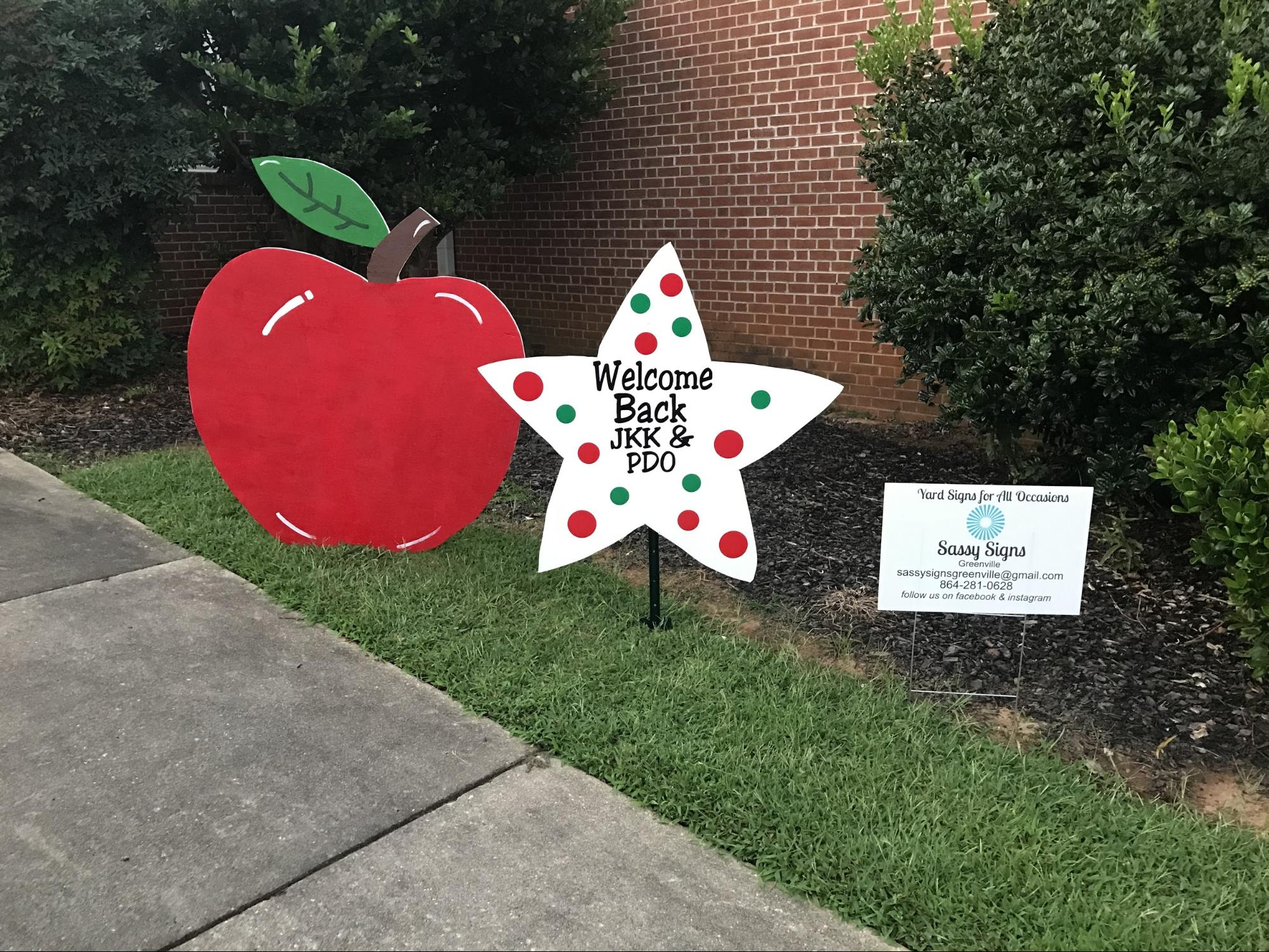
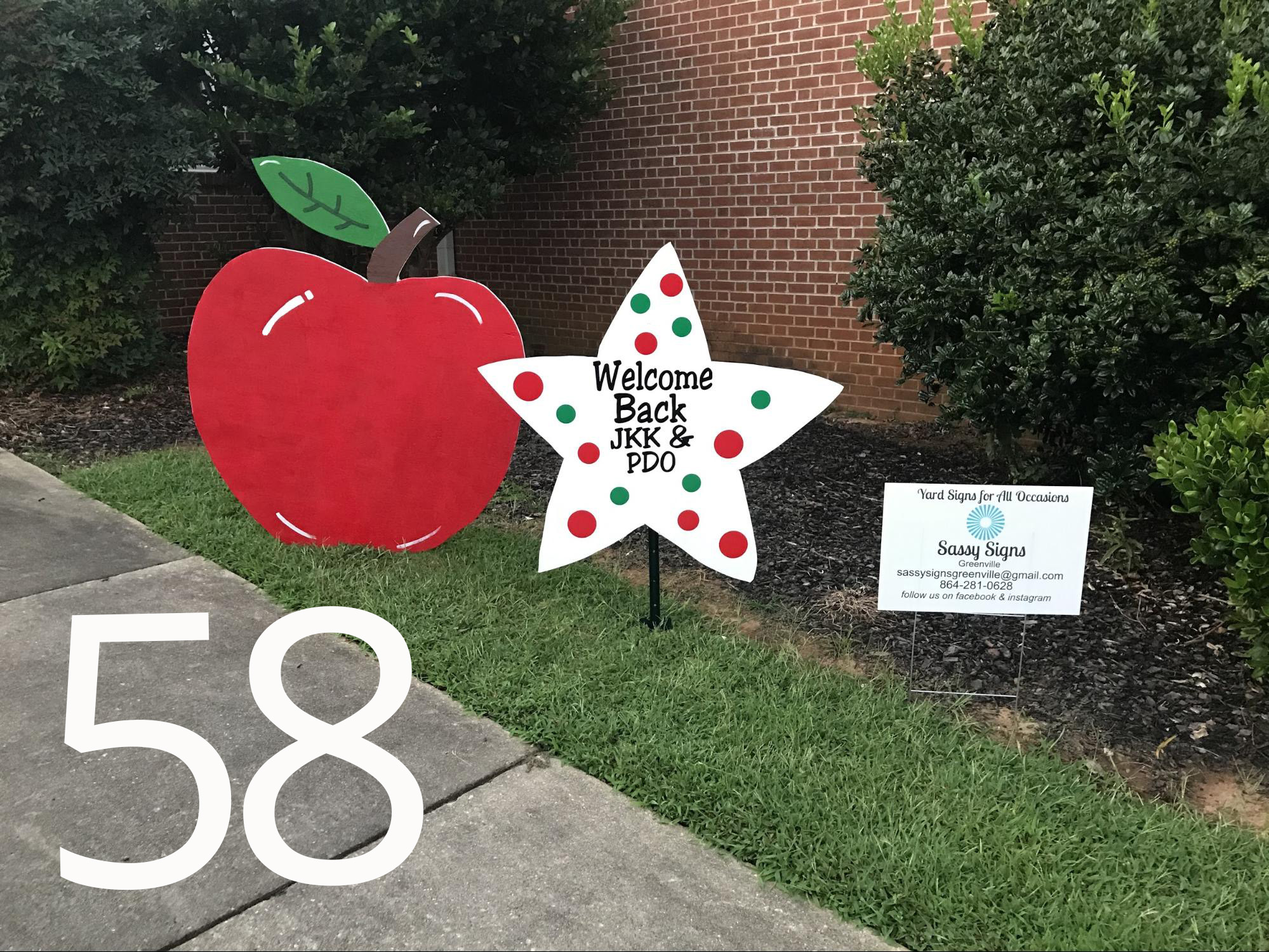
numbers pt2
added the rest of the numbers and added the email link to the contact menu

Changed region(s): [[0.031, 0.6133, 0.3412, 0.9507]]

diff --git a/contactpage.html b/contactpage.html
@@ -94,7 +94,7 @@
     
     
     <div class="container">
-      <form action="mailto:itsanemail@email.com">
+      <form action="mailto:sassysignsgreenville@gmail.com">
         <label for="fname">Name</label>
         <input type="text" id="fname" name="firstname" placeholder="Your name..">
     
